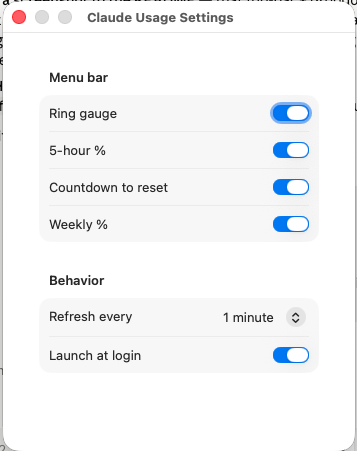
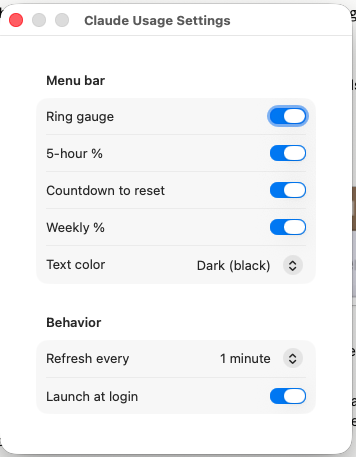
Refresh README screenshots + docs; add maintainer NOTES.md

diff --git a/docs/NOTES.md b/docs/NOTES.md
@@ -1,0 +1,104 @@
+# Maintainer Notes
+
+Context and non-obvious decisions for anyone (including a returning AI assistant) picking
+this up. Read this before changing the menu bar rendering, the auth path, or the polling.
+
+## What it is
+
+A native macOS menu bar app (SwiftUI `MenuBarExtra`, no Xcode project — pure SwiftPM) that
+shows Claude Code subscription **limit usage** in the menu bar: the rolling 5-hour session
+window and the 7-day weekly window, with reset times and a color-coded ring.
+
+## Architecture
+
+Two targets, kept deliberately separate:
+
+- **`ClaudeUsageCore`** — pure logic, **no SwiftUI/AppKit import**, fully unit-tested.
+  - `DateParse` — lenient ISO8601 (`resets_at` has 6-digit fractional seconds + offset).
+  - `Format` — countdown ("2h 13m", "<1m", "now").
+  - `Palette` — percent + API `severity` → `RingColor` (green/amber/red).
+  - `UsageParser` — decodes `/api/oauth/usage` JSON → `UsageSnapshot`.
+  - `KeychainReader` — reads the token; pure `token(fromJSON:)` + `readToken()` I/O.
+  - `UsageClient` (`UsageFetching`) — HTTP call + error mapping (401 / 429 / network / decode).
+  - `Reducer` — pure `(Result, previous) → UsageState` (loading/ok/stale/needsAuth).
+  - `UsageStore` — `@MainActor @Observable`; owns the poll loop + backoff.
+  - `SettingsKeys` / `RefreshInterval` / `MenuBarTextColor` — UserDefaults keys + enums.
+- **`ClaudeUsage`** — the executable: SwiftUI views + `@main` scene + AppKit glue
+  (`MenuBarLabel`, `RingView`, `DropdownView`, `SettingsView`, `LoginItem`,
+  `ConnectivityMonitor`, `ClaudeUsageApp`).
+
+Data flow: `UsageStore` polls every N seconds → `UsageClient.fetch()` reads the Keychain
+token and calls the endpoint → `Reducer` maps the result into `UsageState` → the views
+render off `store.state`.
+
+## Data source
+
+`GET https://api.anthropic.com/api/oauth/usage`
+Headers: `Authorization: Bearer <token>`, `anthropic-beta: oauth-2025-04-20`.
+Token: macOS Keychain generic-password, service **`Claude Code-credentials`**, JSON payload,
+field `claudeAiOauth.accessToken`. Claude Code creates and refreshes it; this app only reads
+it (never manages OAuth). Response has `five_hour`/`seven_day` objects and a richer `limits[]`
+array; parser prefers `limits[]` (weekly = **max** percent across the weekly group), falls
+back to the objects. Credit amounts are in **minor units** — divide `monthly_limit` /
+`used_credits` by `10^decimal_places` (5000 → $50.00).
+
+## The gotchas (these each cost real debugging time)
+
+1. **No XCTest / Swift Testing under Command Line Tools.** Both require Xcode. Tests are a
+   hand-rolled harness (`TestKit`) in an **executable** target, run with
+   `swift run ClaudeUsageCoreTests`. Each area adds `Checks_<Name>.swift` with a
+   `func <name>Checks()` wired into `main.swift` before `t.finish()`. Do **not** reintroduce
+   `import XCTest` — it won't compile here.
+
+2. **`MenuBarExtra` won't reliably render a multi-element SwiftUI label** (custom shapes /
+   several Text runs collapse to one). `MenuBarLabel` therefore rasterizes the composed view
+   into a single `NSImage`. Two-image HStack labels also don't work (the label gets flattened
+   and template-tinting is lost). Keep it one image.
+
+3. **Menu bar text color can't be auto-detected in the wallpaper-darkened case.** In light
+   mode with a dark desktop picture, the menu bar uses white text but `NSApp.effectiveAppearance`
+   still reports light. A template image (`isTemplate = true`) tints correctly but makes the
+   ring monochrome. Resolution: the image is **non-template** (keeps the colored ring) and the
+   text color is a user setting — `MenuBarTextColor` = Automatic/Light/Dark (`SettingsKeys.menuBarTextColor`).
+
+4. **`SettingsLink` does nothing in an `LSUIElement` accessory app.** The dropdown's Settings
+   button uses `NSApplication.shared.activate(ignoringOtherApps:)` + `@Environment(\.openSettings)`
+   instead.
+
+5. **Keychain re-prompts on every rebuild.** Ad-hoc signatures change per build, so the
+   "Always Allow" grant (keyed on the code signature) doesn't carry over — macOS re-prompts,
+   and if the prompt isn't answered the `SecItemCopyMatching` read **blocks**, leaving the app
+   stuck on "Loading". Normal use (install once) is fine. A stable self-signed signing identity
+   would make the grant durable across rebuilds — not yet implemented.
+
+6. **The endpoint rate-limits (HTTP 429) under bursty use.** Rapid rebuild/relaunch/refresh
+   cycles (and manual `curl` probes) trip it; a lone request still gets 200. The client maps
+   429 → `UsageError.rateLimited(retryAfter:)`, and `UsageStore` backs off (60–600s, honoring
+   `Retry-After`) instead of hammering. When debugging, **don't** spam the endpoint — you'll
+   rate-limit the app you're testing.
+
+7. **Refresh triggers.** Polling runs from `.task` on the label (so it starts at launch, since
+   the `.window`-style content view is lazy). Also refreshes on dropdown open, on network
+   reconnect (`ConnectivityMonitor` / `NWPathMonitor`), and on wake (`NSWorkspace.didWakeNotification`).
+
+8. **Swift 5 language mode** (tools 5.9). Sendable issues are warnings, not errors, but the
+   build is kept warning-free (closures marked `@Sendable`, model types `Sendable`).
+
+## Build / run / test
+
+```sh
+swift build                      # compile
+swift run ClaudeUsageCoreTests   # tests (currently 49 checks)
+./scripts/make-app.sh            # build + bundle + ad-hoc sign → "Claude Usage.app"
+cp -R "Claude Usage.app" /Applications/
+```
+
+`make-app.sh` reads the release binary path via `swift build -c release --show-bin-path`,
+assembles the `.app` (Info.plist sets `LSUIElement`), and `codesign --sign -` (ad-hoc).
+
+## History / process
+
+Built spec-first: `docs/superpowers/specs/` (design) → `docs/superpowers/plans/`
+(step-by-step implementation plan) → subagent-driven TDD, task by task, with a final
+whole-branch review. Those two docs are the fullest description of intent and the task
+breakdown if you need the "why" behind a piece.

diff --git a/README.md b/README.md
@@ -9,8 +9,6 @@ pulled from the same authenticated endpoint.
 
 Clicking the menu bar item opens a breakdown:
 
-![Usage breakdown dropdown](docs/dropdown.png)
-
 - **5-hour session** — % used and when it resets
 - **7-day** — % used and reset date
 - **Extra usage credits** (if enabled on your account)
@@ -68,6 +66,9 @@ Open with **⌘,** or **Settings…** in the dropdown:
 ![Settings window](docs/settings.png)
 
 - Toggle what shows in the menu bar: **ring**, **5-hour %**, **countdown**, **weekly %**
+- **Text color**: Automatic / Light (white) / Dark (black). Pick **Light** if your menu bar
+  looks dark because of your wallpaper — macOS can't report that case, so auto-detection
+  falls back to the system light/dark mode.
 - **Refresh interval**: 30s / 1 min / 5 min
 - **Launch at login**
 
@@ -83,6 +84,9 @@ The dropdown always shows the full breakdown regardless of the menu-bar toggles.
 - **It never manages authentication** and never stores or transmits your token anywhere —
   it only reads the token Claude Code already has and sends it to Anthropic's own API,
   exactly as Claude Code does. No telemetry, no third-party servers, no analytics.
+- **Resilient to flaky conditions:** it keeps showing the last-known numbers (dimmed) when
+  offline, refreshes the instant the network returns or the Mac wakes from sleep, and backs
+  off politely (honoring `Retry-After`) if the endpoint rate-limits it (HTTP 429).
 
 ## Development
 
@@ -104,8 +108,11 @@ Sources/
   ClaudeUsage/           SwiftUI views + @main MenuBarExtra scene
   ClaudeUsageCoreTests/  hand-rolled TestKit harness + checks + fixtures
 scripts/                 Info.plist + make-app.sh (bundle + ad-hoc sign)
-docs/                    design spec + implementation plan
+docs/                    design spec, implementation plan, and NOTES.md
 ```
+
+See [`docs/NOTES.md`](docs/NOTES.md) for the architecture, the non-obvious decisions, and
+the gotchas worth knowing before changing anything.
 
 ## Caveats
 
@@ -113,6 +120,10 @@ docs/                    design spec + implementation plan
   Claude Code uses internally, but Anthropic could change it at any time and break this app.
 - Distributed as source only. The app is **ad-hoc signed**, not notarized — you build and
   sign it locally, which is why Gatekeeper doesn't complain about your own build.
+- Because ad-hoc signatures change on every build, macOS re-shows the Keychain permission
+  prompt each time you **rebuild or update** the app — click *Always Allow* again. (Normal
+  day-to-day use never re-prompts.) Signing with a stable self-signed identity would avoid
+  this; ad-hoc is the zero-setup default.
 - **Not affiliated with or endorsed by Anthropic.** "Claude" is a trademark of Anthropic;
   this is an unofficial personal utility.
 
